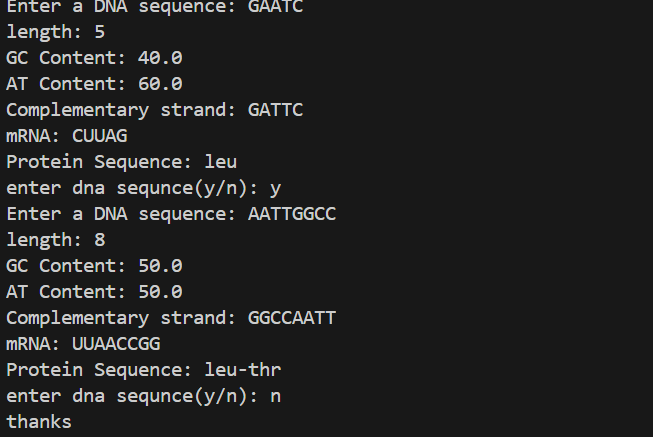
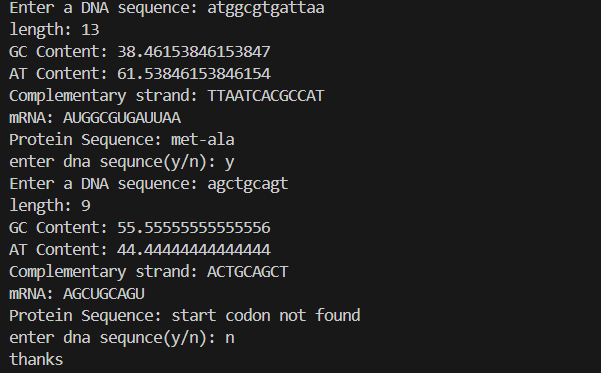
update screenshort

Changed region(s): [[0.0, 0.0, 0.599, 1.0]]

diff --git a/dna_functions.py b/dna_functions.py
@@ -43,22 +43,29 @@ def complement(dna_sequence):
 #transcribe a DNA sequence to mRNA
 def transcribe(dna_sequence):
     transcription = {
-        "A": "U",
-        "T": "A",
-        "C": "G",
-        "G": "C"
+        "A": "A",
+        "T": "U",
+        "C": "C",
+        "G": "G"
     }
     return ''.join(transcription[nucleotide] for nucleotide in dna_sequence)
 
 #actual translation of mRNA to protein sequence code
 def translate(mrna_sequence):
+    start = mrna_sequence.find("AUG")
+    if start ==-1:
+        return "start codon not found"
+    
     protein_sequence = []
-    for i in range(0, len(mrna_sequence), 3):
+    for i in range(start, len(mrna_sequence) - 2 , 3):
         codon = mrna_sequence[i:i+3]
-        if len(codon) == 3:
-            amino_acid = codon_table.get(codon, "")
-            if amino_acid == "stop":
-                break
-            protein_sequence.append(amino_acid)
-    return '-'.join(protein_sequence)
+        if codon in ["UAA", "UAG", "UGA"]:
+            break
+        amino_acid = codon_table.get(codon, "Unknown")
+        protein_sequence.append(amino_acid)
+    if not protein_sequence:
+         return "No protein coded"
+    
+    return "-".join(protein_sequence)
+     
      